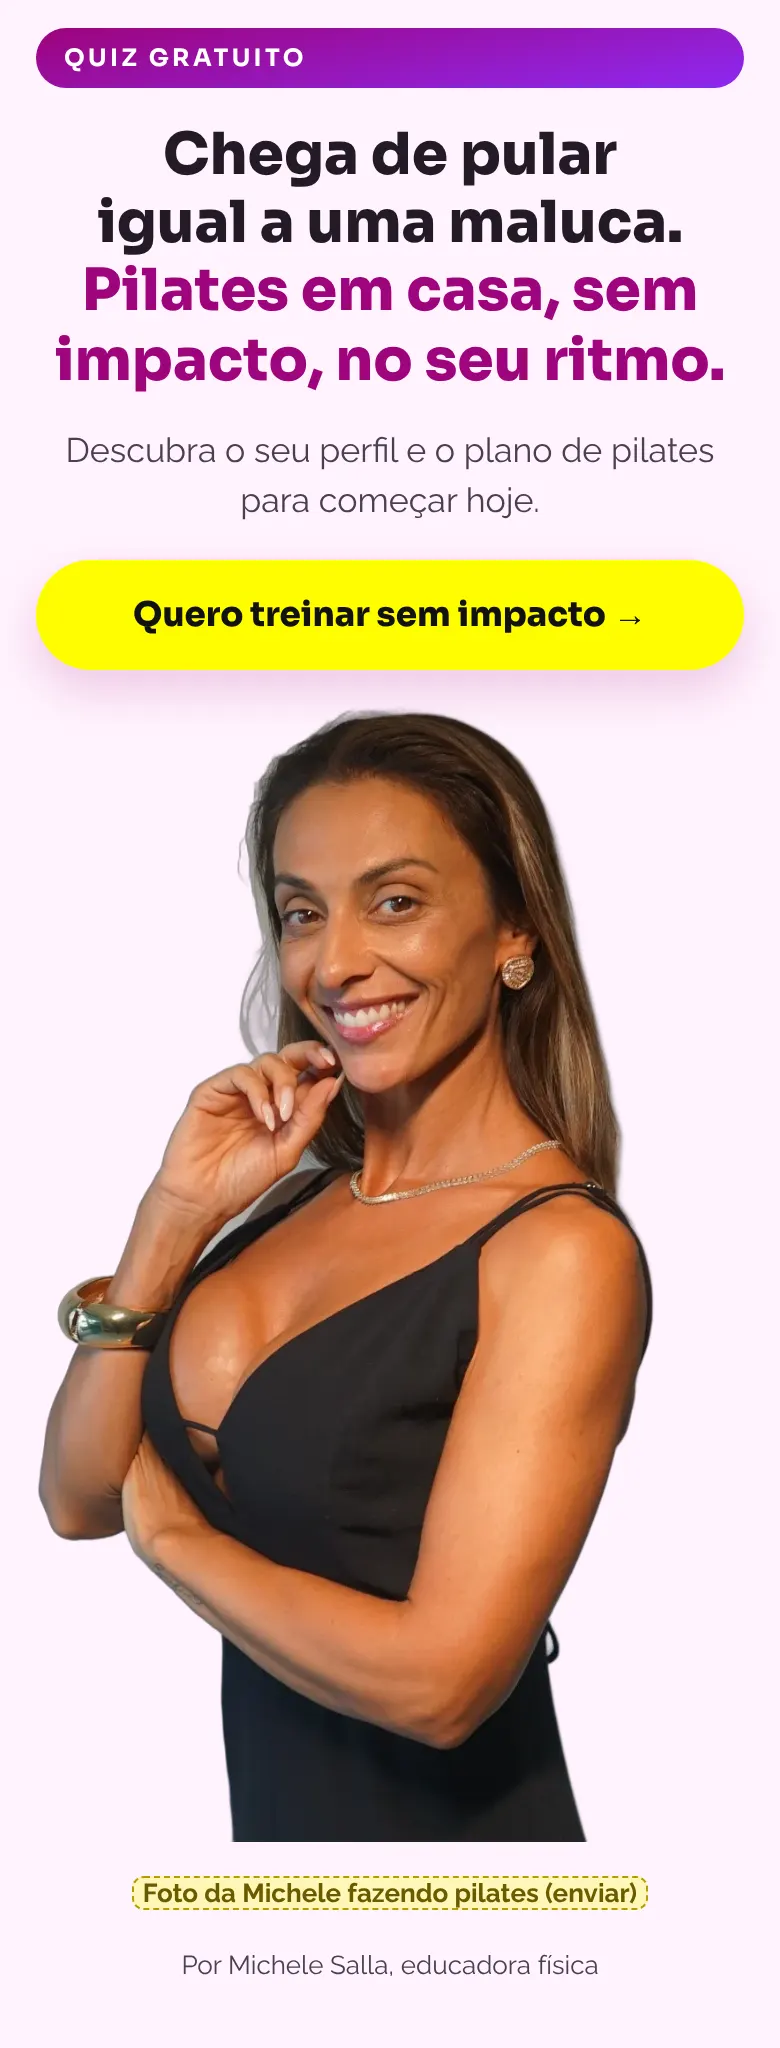
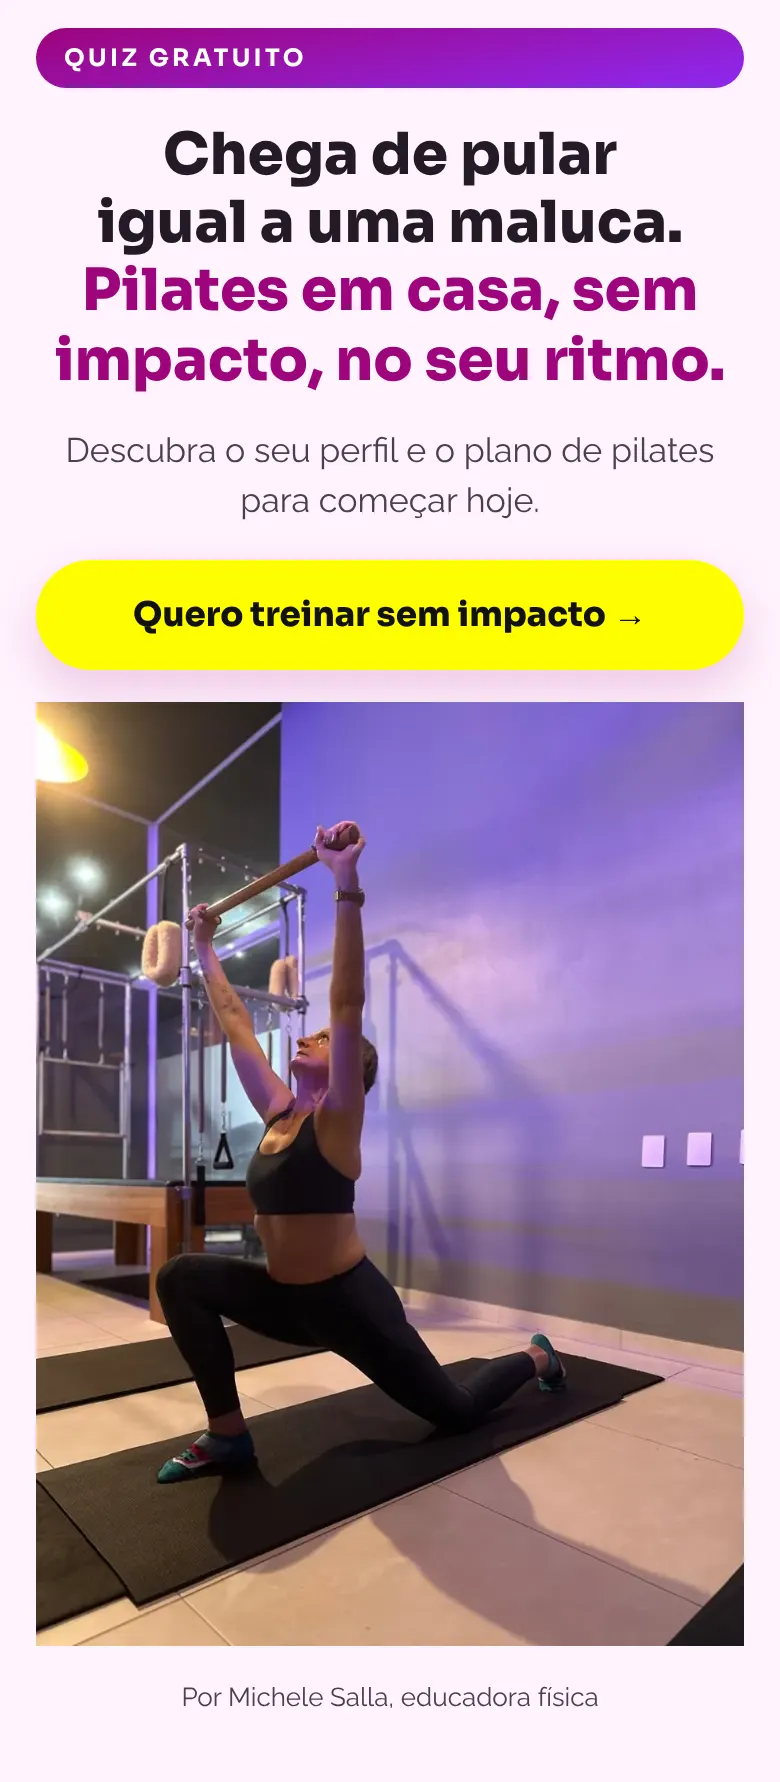
Quiz Pilates: produto, história e fotos reais da Michele (Pilates em Casa)
Claude-Session: https://claude.ai/code/session_01LYmQoangNvB5k6wY4MKJN5

diff --git a/michele-salla/quiz-pilates/pilates.js b/michele-salla/quiz-pilates/pilates.js
@@ -1,8 +1,10 @@
 /* Quiz da Michele Salla · PILATES EM CASA (fase 1 do teste, decisão do Patrik em 05/11/2026). Motor em ../quiz/motor.js.
    Modelo: o quiz do Desafio 7 em 7 e os quizzes de "pilates asiático" que rodam há meses no Meta (página "Pilates
    Asiáticos 28 dias" e Reverse Health: mulheres 40+, 15 a 20 minutos, barriga, core e postura, "descubra seu plano
-   personalizado"). Preço do teste: R$ 47 (Patrik, 05/11). Tudo entre [[ ]] depende do produto de pilates da Michele na
-   Hotmart e aparece em amarelo: não escrever nada do produto sem ver o que existe lá. */
+   personalizado"). Preço do teste: R$ 47 (Patrik, 05/11). Produto e história: texto "MINHA HISTÓRIA" da Michele (Drive, 06/11);
+   fotos reais das aulas dela (mesma pasta). Tudo entre [[ ]] ainda falta e aparece em amarelo. */
+
+const FOTO = 'img/'
 
 const IMG = '../desafio-7em7/assets/img/'
 
@@ -25,7 +27,7 @@ const PROMESSAS = {
     nome: 'Sem estúdio',
     etiqueta: 'Quiz gratuito',
     titulo: 'Pilates sem estúdio e sem sair de casa. <mark>Descubra o plano certo para o seu corpo.</mark>',
-    sub: '[[Confirmar: precisa de algum acessório (bola, elástico) ou só o tapete?]]',
+    sub: 'Para começar, basta um tapete. Bola, flex ring, theraband e overball são opcionais.',
     botao: 'Quero descobrir o meu plano',
   },
   4: {
@@ -38,7 +40,7 @@ const PROMESSAS = {
   5: {
     nome: 'A rotina da Michele',
     etiqueta: 'Quiz gratuito',
-    titulo: 'Eu tenho 45 anos e faço pilates em casa. <mark>Descubra por onde você começa.</mark>',
+    titulo: 'Há quase 20 anos eu vivo o pilates todos os dias. <mark>Descubra por onde você começa em casa.</mark>',
     sub: 'Responda e veja qual é o seu perfil.',
     botao: 'Quero descobrir o meu perfil',
   },
@@ -65,7 +67,7 @@ const TELAS = [
          ['equilibrada', 'Equilibrada, mas sem sobra', 'Consigo me organizar'], ['tempo', 'Tenho tempo para me dedicar', 'Posso investir em mim']] },
   { id: 'tempo-dia', tipo: 'uma', titulo: 'Quanto tempo por dia você consegue para você?', sub: 'Até o menor tempo serve para começar.',
     op: [['5-10', '5 a 10 minutos'], ['10-15', '10 a 15 minutos'], ['15-30', '15 a 30 minutos'], ['30+', 'Mais de 30 minutos']] },
-  { id: 'espaco', tipo: 'uma', titulo: 'Onde você vai praticar?', sub: '[[Confirmar com a Michele o que o pilates dela precisa]]',
+  { id: 'espaco', tipo: 'uma', titulo: 'Onde você vai praticar?', sub: 'Para começar, basta um tapete. Os acessórios são opcionais.',
     op: [['sala', 'Na sala ou no quarto, tenho um cantinho'], ['tapete', 'Já tenho um tapete'], ['pouco', 'Tenho pouco espaço'], ['nao-sei', 'Ainda não sei']] },
   { id: 'fase', tipo: 'uma', titulo: 'Você está em alguma destas fases?', sub: 'O corpo muda em cada fase, e o treino também.',
     op: [['pos-parto', 'Tive bebê nos últimos 2 anos'], ['maes', 'Já sou mãe há mais tempo'], ['menopausa', 'Pré-menopausa ou menopausa'], ['nenhuma', 'Nenhuma delas']] },
@@ -90,31 +92,31 @@ const PERFIS = {
     nome: 'A Diva da Nova Fase',
     retrato: 'O seu corpo mudou: gestação, os anos ou a menopausa. O que funcionava antes parou de funcionar.',
     trava: 'Não é falta de esforço. Agora o seu corpo pede outro cuidado: fortalecer o centro do corpo, de dentro para fora, com postura e respiração, sem impacto.',
-    comeca: 'Você começa por [[1ª aula ou módulo do pilates indicado para quem está numa nova fase]].',
+    comeca: 'Você começa pelos fundamentos do método (respiração, postura e controle do movimento) e segue para as aulas de fortalecimento e mobilidade. Se teve bebê, tem as aulas de pós-parto.',
   },
   'sem-impacto': {
     nome: 'A Diva Sem Impacto',
     retrato: 'Pular, correr e treino puxado não combinam com o seu corpo hoje: dói, incomoda ou você simplesmente não gosta.',
     trava: 'Você não precisa sofrer para cuidar do corpo. O pilates trabalha força, postura e o centro do corpo sem impacto.',
-    comeca: 'Você começa por [[aulas do pilates sem impacto para iniciar]].',
+    comeca: 'Você começa pelos fundamentos e pelas aulas com o peso do próprio corpo, sem impacto, para ganhar força, mobilidade e flexibilidade.',
   },
   'postura': {
     nome: 'A Diva da Postura',
     retrato: 'Costas cansadas, ombros caídos e a sensação de corpo pesado no fim do dia.',
     trava: 'Quando a postura sai do lugar, a barriga aparece mais e o corpo cansa mais. O primeiro passo é devolver o alinhamento.',
-    comeca: 'Você começa por [[aulas do pilates de postura e coluna]].',
+    comeca: 'Você começa pelos fundamentos (respiração e postura) e pelas aulas para a coluna: dor lombar, cervical e mobilidade.',
   },
   'recomeco': {
     nome: 'A Diva que Recomeça Toda Segunda',
     retrato: 'Você começa com tudo, a semana aperta, um dia sem treino vira “já estraguei” e a segunda-feira vira a data do recomeço.',
     trava: 'O que te tira do caminho não é preguiça, é o “tudo ou nada”. Um treino curto que você faz vale mais que o treino perfeito que você não faz.',
-    comeca: 'Você começa por [[aula curta do pilates para os dias corridos]], um dia de cada vez.',
+    comeca: 'Você começa pelos fundamentos e segue o passo a passo, do básico para frente, um dia de cada vez e sem se sentir perdida.',
   },
   'iniciante': {
     nome: 'A Diva que Vai Começar Agora',
     retrato: 'Você quer cuidar do corpo em casa, no seu ritmo, sem estúdio e sem pressão.',
     trava: 'Começar sem saber o que fazer é o que faz muita gente desistir. Você precisa de um caminho simples, do básico para frente.',
-    comeca: 'Você começa por [[aula de boas-vindas ou do básico do pilates]].',
+    comeca: 'Você começa pelos fundamentos do método: respiração, postura, controle do movimento e consciência corporal, mesmo que nunca tenha praticado.',
   },
 }
 
@@ -128,11 +130,11 @@ function perfilDe(r) {
 }
 
 const MEDO = {
-  movimentos: '[[como as aulas ensinam quem nunca fez pilates ou não tem flexibilidade]]',
-  dor: 'pilates é sem impacto. Se você tem dor, hérnia ou teve bebê há pouco tempo, converse com o seu médico antes de começar.',
-  tempo: '[[minutos de cada aula]] por dia, em casa.',
+  movimentos: 'o curso começa pelos fundamentos e te guia passo a passo, mesmo que você nunca tenha praticado. Ninguém começa no nível avançado.',
+  dor: 'pilates é sem impacto e o curso tem aulas para dor lombar, cervical, ciático, hérnia de disco e escoliose. Se você tem dor, hérnia ou teve bebê há pouco tempo, converse com o seu médico antes de começar.',
+  tempo: 'você faz em casa, sem deslocamento e sem horário fixo, [[minutos de cada aula]].',
   dinheiro: '[[garantia na Hotmart: confirmar quantos dias]]: se não fizer sentido para você, pede o reembolso pela plataforma.',
-  desistir: '[[o que no produto ajuda a manter a constância: planner, grupo, áudio?]]',
+  desistir: 'um caminho passo a passo, do básico para frente, para você não se sentir perdida e não precisar recomeçar do zero.',
 }
 
 // Painel de revisão: respostas de exemplo para abrir cada perfil direto (?tela=resultado&perfil=…).
@@ -147,13 +149,13 @@ const EXEMPLO = {
 const QUIZ = {
   slug: 'pilates-p', // painel: pilates-p1 … pilates-p5 (aba Quiz Pilates)
   logo: null,
-  capa: { src: IMG + 'michele-recorte.webp', alt: 'Michele Salla', w: 802, h: 1292, pendencia: 'Foto da Michele fazendo pilates (enviar)' },
+  capa: { src: FOTO + 'michele-pilates-estudio.webp', alt: 'Michele Salla fazendo pilates no estúdio', w: 900, h: 1200 },
   bio: [
-    'Educadora Física desde 2005, especialista em emagrecimento comportamental, licenciada na técnica da Barriga Negativa e autora do livro Vida Diva (2025).',
-    '[[Frase da Michele sobre o pilates: há quanto tempo dá aula e onde (o CNPJ é de serviços de pilates e personal)]]',
+    'Formada em Educação Física e especialista em Pilates. Desde 2005 eu estudo, ensino e vivo esse método: clássico, contemporâneo, com acessórios, para hérnia de disco, gestantes, pós-parto, terceira idade e dores na coluna.',
+    'Comecei com um estúdio pequeno, ao lado do meu marido. Na pandemia, meus alunos não podiam mais ir ao estúdio, e eu transformei tudo o que eu sabia em pilates possível e seguro dentro de casa. Assim nasceu o Pilates em Casa.',
     'Nas próximas perguntas, vou entender o seu corpo e a sua rotina para te mostrar por onde começar.',
   ],
-  prova: { titulo: 'Quem já pratica comigo', fotos: [], pendencia: 'Fotos ou depoimentos reais de alunas do pilates (as do Desafio 7 em 7 não podem ser usadas aqui)' },
+  prova: { titulo: 'Quem já pratica comigo', fotos: [['turma-ao-ar-livre', 'Turma da Michele em aula ao ar livre', 900, 404], ['aula-com-bola', 'Aula de pilates com bola', 900, 1200], ['aula-na-grama', 'Aula de pilates na grama', 900, 1200], ['aula-com-elastico', 'Aula de pilates com elástico', 900, 1200]].map(([n, alt, w, h]) => ({ src: FOTO + n + '.webp', alt, w, h })) },
   insight: {
     ciclo: ['Rotina corrida. Cansaço.', 'Costas pesadas no fim do dia.', 'Treino com impacto que dói ou que você larga.', 'E o corpo vai ficando travado.'],
     destaque: 'Isso não é falta de esforço.',
@@ -161,16 +163,22 @@ const QUIZ = {
   },
   resultado: {
     mente: 'E cuidar dos pensamentos e hábitos que fazem você desistir de si mesma.',
-    diaADia: '[[Frase de fechamento com o que o pilates entrega por dia]]',
+    diaADia: 'Você não precisa esperar a dor piorar para cuidar do seu corpo. Pode começar hoje, dentro da sua casa, com orientação, método e segurança.',
     botao: 'Ver o meu plano de pilates',
   },
   oferta: {
     produto: 'Pilates em Casa', valor: '47', checkout: null, // [[link da Hotmart a R$ 47: o Patrik manda]]
-    titulo: 'O seu caminho começa no <mark>[[nome do produto de pilates na Hotmart]]</mark>',
-    intro: '[[O que é: quantas aulas, quantos minutos cada, em quantos dias, como acessa]]',
-    modulos: [['[[Módulo 1]]', '[[o que tem dentro, como está na Hotmart]]'], ['[[Módulo 2]]', '[[…]]'], ['[[Módulo 3]]', '[[…]]']],
+    titulo: 'O seu caminho começa no <mark>Pilates em Casa</mark>',
+    intro: 'Não é só uma sequência de aulas gravadas: é a minha jornada inteira no pilates, organizada para te guiar passo a passo, mesmo que você nunca tenha praticado. [[Quantas aulas, quantos minutos cada e por quanto tempo fica o acesso]]',
+    modulos: [
+      ['Fundamentos do método', 'Respiração, postura, controle do movimento e consciência corporal.'],
+      ['Aulas clássicas', 'Inspiradas na essência criada por Joseph Pilates.'],
+      ['Peso do próprio corpo', 'Força, mobilidade, flexibilidade, alongamento e condicionamento.'],
+      ['Aulas com acessórios (opcional)', 'Bola, flex ring, theraband e overball, no conforto da sua casa.'],
+      ['Fases e necessidades do corpo', 'Dor lombar, cervical, ciático, hérnia de disco, escoliose, pós-parto, mobilidade e fortalecimento.'],
+    ],
     bonus: ['[[bônus, se houver]]'],
-    fotos: [], fotosPendencia: 'Fotos de alunas do pilates ou prints de depoimentos reais',
+    fotos: [['aula-em-grupo', 'Aula de pilates em grupo', 900, 675], ['estudio', 'Estúdio da Michele', 900, 1200]].map(([n, alt, w, h]) => ({ src: FOTO + n + '.webp', alt, w, h })),
     parcela: 'à vista · [[parcelamento que a Hotmart mostra]]',
     botao: 'Quero começar o meu pilates em casa',
     selos: 'Compra segura · [[Garantia de 7 dias]] · Pagamento único',

diff --git a/michele-salla/quiz-pilates/revisao/index.html b/michele-salla/quiz-pilates/revisao/index.html
@@ -105,7 +105,7 @@ footer{color:var(--suave);font-size:13px}
 <section class="topo">
   <span class="rot">Michele Salla · Quiz Pilates em Casa · fase 1 do teste · revisão de 05/11/2026</span>
   <h1>Quiz Pilates: o que está no ar e o que falta para anunciar</h1>
-  <p class="sub">Por decisão do Patrik, o teste começa pelo pilates, a R$ 47. O quiz está pronto e testado. Tudo que depende do produto de pilates na Hotmart está em <mark class="p">amarelo</mark>: não escrevi nada do produto sem ver o que existe lá. Antes de gravar os criativos, revise as promessas e preencha o que está em amarelo.</p>
+  <p class="sub">Por decisão do Patrik, o teste começa pelo pilates, a R$ 47. O quiz está pronto e testado. O produto e as fotos vieram da Michele (texto “Minha história” e fotos das aulas, 06/11). O que ainda falta está em <mark class="p">amarelo</mark>. Antes de gravar os criativos, revise as promessas e preencha o que está em amarelo.</p>
   <div class="botoes">
     <a class="bt forte" href="https://clientes-phi-six.vercel.app/michele-salla/quiz-pilates/?p=1">Abrir o quiz →</a>
     <a class="bt" href="https://clientes-phi-six.vercel.app/michele-salla/quiz-pilates/?p=1">Capa 1</a>
@@ -156,20 +156,16 @@ footer{color:var(--suave);font-size:13px}
 
 <section class="sec" id="oferta">
   <header><span class="rot">5 · A página final (tela 20)</span><h2>Uma oferta só: o pilates em casa por R$ 47</h2>
-  <p class="sub">O nome do perfil aparece no topo e o medo que ela marcou ganha uma resposta. O conteúdo do produto vem da Hotmart.</p></header>
+  <p class="sub">O nome do perfil aparece no topo e o medo que ela marcou ganha uma resposta. Os módulos saíram do texto “Minha história” da Michele.</p></header>
   <div class="duas">
     <div class="faixa" id="faixa-oferta" style="padding:0"></div>
     <div class="caixa">
-      <h3>O que a Michele precisa mandar (da Hotmart)</h3>
+      <h3>O que ainda falta (da Hotmart)</h3>
       <ul class="checks pend">
-        <li><span>Nome do produto de pilates como está na Hotmart.</span></li>
-        <li><span>Lista dos módulos e aulas, com quantos minutos cada e em quantos dias é o plano.</span></li>
-        <li><span>Se precisa de algum acessório (bola, elástico) ou só o tapete.</span></li>
-        <li><span>Bônus, se tiver.</span></li>
-        <li><span>Garantia configurada (quantos dias).</span></li>
-        <li><span>Fotos ou prints de depoimentos de alunas do pilates. As fotos do Desafio 7 em 7 não podem ser usadas aqui.</span></li>
-        <li><span>Uma foto dela fazendo pilates (para a capa) e confirmar a capa 5: "Eu tenho 45 anos e faço pilates em casa".</span></li>
-        <li><span>Uma frase sobre o pilates para a apresentação: há quanto tempo dá aula.</span></li>
+        <li><span>Quantas aulas, quantos minutos cada e por quanto tempo fica o acesso.</span></li>
+        <li><span>Confirmar se os nomes dos 5 blocos da oferta batem com os módulos da Hotmart (montei pelo texto dela).</span></li>
+        <li><span>Bônus, se tiver, e a garantia configurada na Hotmart (quantos dias).</span></li>
+        <li><span>Prints de depoimentos de alunas do pilates (as fotos das aulas já estão no quiz).</span></li>
       </ul>
     </div>
   </div>
@@ -234,11 +230,11 @@ const PROM = [
   { p: 2, nome: 'Sem impacto', titulo: 'Chega de pular igual a uma maluca. Pilates em casa, sem impacto, no seu ritmo.',
     fonte: 'Post da Michele “Chega de ficar pulando igual a uma maluca” (CTR 7%, mas só 159 cliques). Sem impacto é o que o pilates entrega.' },
   { p: 3, nome: 'Sem estúdio', titulo: 'Pilates sem estúdio e sem sair de casa. Descubra o plano certo para o seu corpo.',
-    fonte: 'O mercado brasileiro vende “pilates em casa, sem academia, sem equipamento”. <mark class="p">Confirmar se o produto precisa de acessório.</mark>' },
+    fonte: 'O mercado brasileiro vende “pilates em casa, sem academia, sem equipamento”. No produto da Michele, basta o tapete; bola, flex ring, theraband e overball são opcionais (texto dela).' },
   { p: 4, nome: 'Plano personalizado', titulo: 'Descubra o plano de pilates em casa para o seu perfil.',
     fonte: 'É a chamada dos anúncios do pilates asiático que rodam há quase 3 meses: “Descubra seu plano personalizado”.' },
-  { p: 5, nome: 'A rotina da Michele', titulo: 'Eu tenho 45 anos e faço pilates em casa. Descubra por onde você começa.',
-    fonte: 'A persona “resolvida” da reunião de 03/11 e a idade dela. <mark class="p">Confirmar com a Michele que ela faz pilates em casa.</mark>' },
+  { p: 5, nome: 'A rotina da Michele', titulo: 'Há quase 20 anos eu vivo o pilates todos os dias. Descubra por onde você começa em casa.',
+    fonte: 'Texto da Michele: “depois de quase duas décadas vivendo o Pilates todos os dias” e “desde 2005”.' },
 ]
 const TELAS = [
   ['idade', 'Qual a sua faixa de idade?', 'Pergunta fácil no começo, como os concorrentes. Separa quem é público.'],

diff --git a/michele-salla/PASSAGEM_BASTAO.md b/michele-salla/PASSAGEM_BASTAO.md
@@ -348,6 +348,12 @@ Os M da pasta "MICHELE LOW" são esses mesmos vídeos. Mapa conferido pelos quad
     `window.plBloco` (chama `window.plTique()` antes e depois da troca). Site `quiz` no `cliente.config.ts` (domínios: michelesalla.com.br,
     clientes-phi-six.vercel.app, painel.michelesalla.com.br). A API aceita vários sites no mesmo domínio pelo começo do slug.
     Telas abertas com `?tela=` (painel de revisão) não rastreiam. Se o quiz mudar de endereço, pôr o domínio em `outrosDominios`.
+  - **06/11 · Material da Michele** (Drive do Patrik, pasta 19ndLn2JpuMD1VM67vPtJIBaSb_ZVT5fw: FOTOS + HISTORIA/"MINHA HISTÓRIA.docx"):
+    produto **Pilates em Casa** (nasceu na pandemia; fundamentos, aulas clássicas, peso do corpo, acessórios opcionais bola/flex ring/
+    theraband/overball, aulas para lombar, cervical, ciático, hérnia, escoliose, pós-parto); Michele especialista em pilates desde 2005,
+    estúdio com o marido. Quiz preenchido com isso; fotos reais em `quiz-pilates/img/`. Capa 5 virou "Há quase 20 anos eu vivo o
+    pilates todos os dias…" (frase dela). **Falta:** nº de aulas/minutos/acesso, bônus, garantia, parcelamento, link Hotmart R$ 47,
+    depoimentos, webhook Hotmart, domínio (Vercel + cPanel).
   - **05/11 · Decisões do Patrik:** manter 7 dias; Desafio só com hipopressivo + áudio (tirado "funcionais" do quiz; a página 10264
     no WordPress ainda fala em funcionais: regravar pelo PC quando ele pedir); ManyChat já ajustado por ele; **fase 1 do teste =
     PILATES a R$ 47**; endereço **quiz.michelesalla.com.br**.
